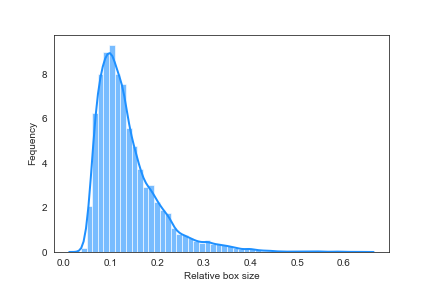
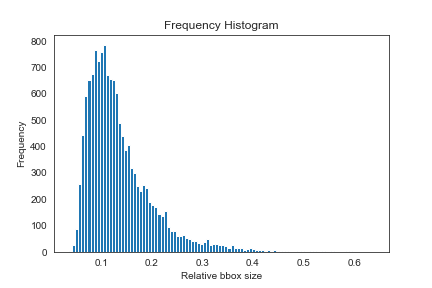
Change plot

diff --git a/annotation.py b/annotation.py
@@ -3,7 +3,6 @@ from xml.etree import ElementTree as ET
 import glob
 import math
 import time
-import seaborn as sns
 import matplotlib.pyplot as plt
 
 def relative_box_size(path):
@@ -27,11 +26,9 @@ for path in path_list:
     relative_list.append(relative_box_size(path))
 print(len(path_list), len(relative_list))
 
-sns.distplot(relative_list, color="dodgerblue", **kwargs)
-plt.xlabel('Relative box size')
-plt.ylabel('Fequency')
-plt.savefig('Fequency_result.png')
-plt.legend();
+plt.hist(relative_list, bins = 100)
+plt.gca().set(title='Frequency Histogram', ylabel='Frequency', xlabel = 'Relative bbox size');
+plt.savefig('F:/viettel/relative_box_size_graph/Fequency_result.png')
 
 print("--- %.2f seconds ---" % (time.time() - start_time))
 print('--- COMPLETE ---')
